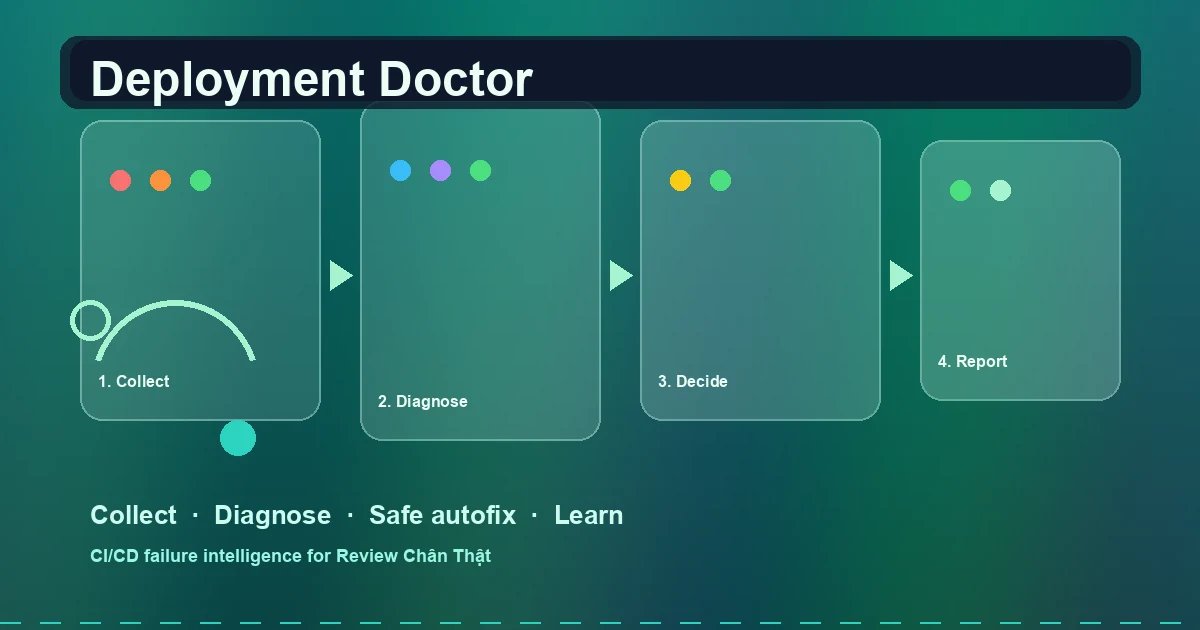
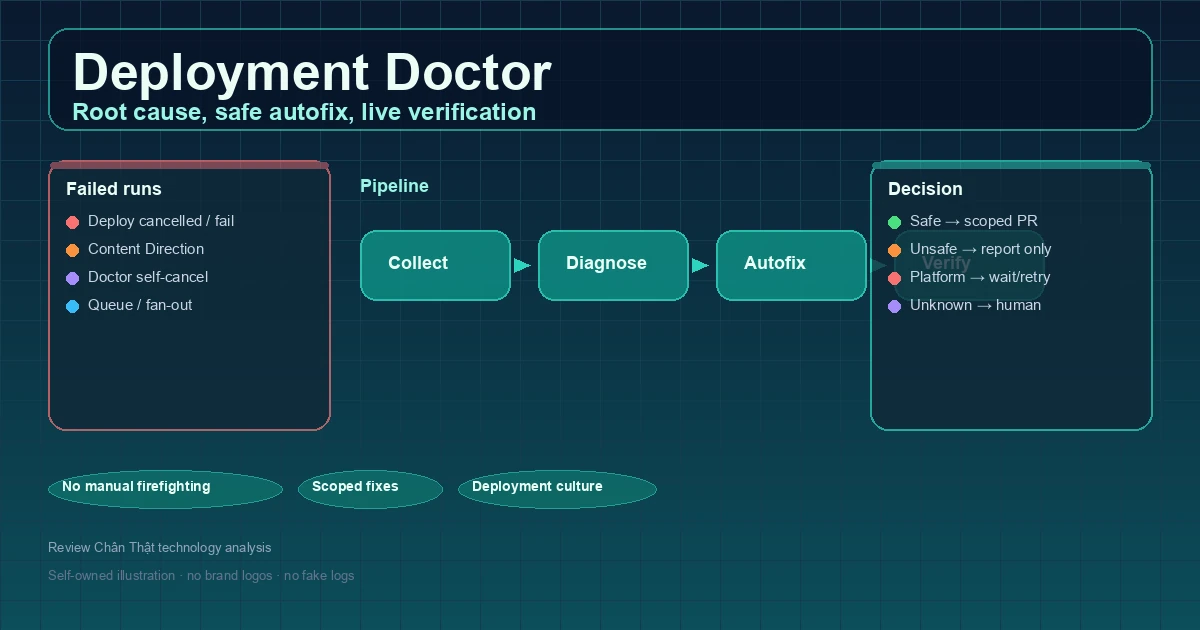
feat(content): add Deployment Doctor article
Expanded Vietnamese technology post on Deployment Doctor deployment culture,
with required root-cause tables, baseline debt / live verification lessons,
and a context-aware self-generated hero WebP.

diff --git a/content/posts/deployment-doctor-tu-chan-doan-loi-deploy-root-cause-autofix.md b/content/posts/deployment-doctor-tu-chan-doan-loi-deploy-root-cause-autofix.md
@@ -8,7 +8,7 @@ tags = ["Deployment Doctor", "GitHub Actions", "CI/CD", "autofix", "deployment",
 author = "Minh Hoàng"
 image = "images/posts/deployment-doctor-tu-chan-doan-loi-deploy-root-cause-autofix.webp"
 thumbnail = "images/posts/deployment-doctor-tu-chan-doan-loi-deploy-root-cause-autofix.webp"
-image_alt = "Minh họa editorial Deployment Doctor: pipeline Collect → Diagnose → Decide → Report với tone teal, biểu tượng chẩn đoán CI/CD và trạng thái fail/safe/autofix."
+image_alt = "Minh họa editorial Deployment Doctor: dashboard tech teal, pipeline Collect Diagnose Autofix Verify, panel Failed runs / Safe Unsafe Report, không logo thương hiệu."
 image_status = "verified"
 image_provider = "self-generated"
 image_source = "Review Chân Thật"
@@ -43,188 +43,179 @@ items = [
 ]
 +++
 
-Có những đêm CI/CD đỏ hàng loạt: Deploy fail, QA debt fail, Content Direction fail — mỗi cái một commit, mỗi cái một log. Nếu cứ mở từng run, đoán root cause, vá tay rồi push lại, bạn sẽ kiệt sức trước cả khi blog ổn định.
+Một blog cá nhân trông “nhỏ”, nhưng pipeline có thể rất đông: Deploy, Content Direction, QA debt, autofix, snapshot, doctor… Chỉ cần **một** fail không được phân loại, cả dây chuyền dễ chạy vòng: bot sửa, bot report, bot deploy lại, runner xếp hàng, và chủ blog thức đêm mở log.
 
-**Deployment Doctor** ra đời từ đúng nỗi đau đó. Đây không phải “AI thần thánh tự sửa mọi bug”. Đây là một **lớp văn hoá deployment**: gom failed builds, phân loại root cause, lưu kinh nghiệm hệ thống, **chỉ autofix khi an toàn**, và đưa report ra dashboard để owner không phải sống trong GitHub Actions.
+Vấn đề không phải “có lỗi”. Lỗi luôn có. Vấn đề là **lỗi không được gắn ngữ cảnh**: runner queue trông giống bug code; GitHub outage trông giống template hỏng; nợ QA bài cũ trông giống feature PR mới hỏng. Khi mọi thứ đều “đỏ”, phản xạ tự nhiên là commit hotfix — và đó thường là phản xạ sai.
 
-Trang báo cáo nội bộ của blog: [Deployment Doctor]({{< relref "/deployment-doctor/" >}}).
-
-## Vấn đề thật: fail không phải luôn do code của bạn
-
-Trong vài ngày vận hành Review Chân Thật trên GitHub Actions + GitHub Pages, chúng tôi thấy rõ ba nhóm lỗi **không cùng một cách xử lý**:
-
-| Nhóm | Ví dụ | Có nên viết code hotfix ngay? |
-|------|--------|-------------------------------|
-| Platform / runner | `Waiting for a hosted runner…`, Actions delayed start, Pages incident | **Không** — chờ recovery, cancel run cũ, rerun latest |
-| QA debt / baseline | Post cũ thiếu image metadata, creator rỗng sai policy | **Không chặn deploy tính năng mới** — batch debt riêng |
-| Lỗi scope rõ | date-only, self-owned image bắt `direct_url`, report rỗng, hardcode `/series/` | **Có thể autofix** nếu script nhỏ + QA + retry cap |
-
-Nếu hệ thống **không phân biệt** ba nhóm này, mọi fail đều trông giống nhau: đỏ, và đều kích hoạt “sửa code gấp”. Đó là cách biến một sự cố runner thành một vòng lặp PR hotfix vô nghĩa.
+**Deployment Doctor** ra đời để biến failed builds thành **dữ liệu có hành động**: gom run, đọc log đã sanitize, gắn root cause, quyết định `safe_to_autofix`, rồi hoặc mở PR nhỏ, hoặc chỉ ghi report. Dashboard nội bộ nằm tại [Deployment Doctor](/deployment-doctor/). Bài này kể triết lý và design thật mà Review Chân Thật đang dùng, dựa trên một cụm failed runs gần đây trên `main` (không bịa run ID tuyệt đối nếu không cần).
 
 ## Deployment Doctor là gì?
 
-**Deployment Doctor** là pipeline Python + workflow GitHub Actions + trang Hugo (noindex) giúp blog:
+Deployment Doctor là một lớp **“bác sĩ deployment”** — không phải AI thay engineer, mà là **quy trình có máy hỗ trợ**:
 
-1. **Collect** — lấy danh sách run gần đây (`gh run list`), lọc failure / cancelled / timed_out / stuck queue.
-2. **Sanitize logs** — lưu excerpt đã redact token/API key (không đưa secret ra frontend).
-3. **Diagnose** — so khớp log với **knowledge base** root cause đã gặp.
-4. **Decide** — `safe_to_autofix: true|false`, action items, có nên mở PR hay chỉ report.
-5. **Autofix (có giới hạn)** — tối đa vài fix/lần, tối đa 2 attempt cho cùng `sha:failure_type`.
-6. **Export dashboard** — `data/deployment-doctor.json` → trang `/deployment-doctor/`.
+1. **Gom failed workflows** từ GitHub Actions (failure, cancelled, timed_out, hoặc queue bất thường).
+2. **Đọc log đã sanitize** — redact token, API key, private key; không đưa secret ra frontend.
+3. **Nhận diện root cause** bằng knowledge base (pattern log + heuristic).
+4. **Gắn `safe_to_autofix: true|false`** cùng action items.
+5. **Chạy script sửa lỗi nếu an toàn** và scope hẹp.
+6. **Mở PR nhỏ** hoặc **chỉ report** nếu không an toàn.
+7. **Lưu kinh nghiệm** vào knowledge base / attempt ledger để lần sau không “học lại từ zero”.
 
-Tên “Doctor” mang nghĩa **chẩn đoán trước khi kê thuốc**. Không phải tự động mổ mọi thứ.
+Nói cách khác: Doctor **chẩn đoán trước khi kê thuốc**. Tự động hoá không đồng nghĩa “cứ fail là sửa code”.
 
-## Knowledge base: biến incident thành trí nhớ hệ thống
+## Vì sao không nên auto-fix mọi lỗi?
 
-Mỗi lần fail “đã từng gặp” mà không ghi lại, lần sau team lại học lại từ đầu. Deployment Doctor giữ một knowledge base JSON với pattern kiểu:
+Automation thiếu phân loại nguy hiểm hơn không có automation. Một vài lý do thực tế:
 
-- `runner_capacity_delay` — runner queue, **không** autofix code  
-- `external_platform_incident` — GitHub Status / Actions delayed  
-- `baseline_debt_blocking_unrelated_deploy` — nợ QA cũ chặn feature  
-- `self_owned_image_direct_url` — ảnh self-generated không có `direct_url`  
-- `content_direction_empty_report` — report 0 posts / empty fallback  
-- `workflow_fanout` — một merge kích hoạt quá nhiều workflow song song  
-- `table_layout_ux_regression`, `qa_expectation_mismatch`, …
+**Runner queue không phải code bug.** Log kiểu *Waiting for a hosted runner to come online* nghĩa là job chưa kịp checkout. Commit hotfix Hugo template lúc này chỉ tạo thêm run xếp hàng.
 
-Mỗi pattern có:
+**GitHub outage / rate limit không phải lỗi repo.** Khi Actions/Pages degraded, “sửa blog” không làm platform xanh lại. Cần pause workflow phụ, cancel run superseded, rerun latest sau recovery.
 
-- **match strings** trong log  
-- **safe_to_autofix**  
-- **action items** rõ ràng  
-- script gợi ý (nếu có)
+**Old QA debt không nên block deploy tính năng mới.** Nếu mỗi PR nhỏ phải “chữa hết” metadata ảnh của hàng chục bài cũ, feature ship sẽ chết vì nợ không liên quan.
 
-Nhờ vậy, khi log hiện `No direct_url in manifest` trên ảnh `self-generated`, doctor **không** đề xuất “tải lại từ Pexels”. Nó đề xuất: bỏ yêu cầu `direct_url` với self-owned, kiểm tra file local dưới `static/images/posts/`.
+**Một số lỗi cần chờ / retry / cancel**, không cần commit. Deploy stale đôi khi chỉ cần rerun artifact mới nhất có kiểm soát.
 
-## Quy tắc vàng: an toàn trước, tự động sau
+**Auto-fix thiếu phân loại có thể làm site hỏng hơn:** bot “vá” sai file, tạo PR rỗng, hoặc loop commit report kích hoạt deploy vô hạn. Doctor cố tình **không** an toàn nếu không có pattern rõ.
 
-### Những gì **không** được autofix
+## Những nhóm lỗi Deployment Doctor phải nhận diện
 
-- Runner capacity / “waiting for hosted runner”  
-- GitHub outage / rate limit Pages  
-- Fake image creator (vi phạm policy attribution)  
-- Unknown failure chưa có pattern đủ tin cậy  
+Bảng dưới là “bảng bệnh án” tối thiểu — tín hiệu nhận diện, có được autofix trong deploy chính hay không, và action item gợi ý.
 
-Với các lỗi này, doctor **chỉ report**: owner thấy action item kiểu “đợi recovery rồi rerun latest deploy”, không có PR code lung tung lúc nửa đêm.
+| Nhóm lỗi | Tín hiệu nhận diện | Có nên autofix? | Action item |
+|----------|--------------------|-----------------|-------------|
+| Runner capacity delay | `Waiting for a runner…` / hosted runner chưa online | **Không** | Cancel run superseded; retry **latest** deploy sau khi hồi phục |
+| External platform incident | GitHub Status degraded, Actions delayed start | **Không** | Pause workflow phụ; không hotfix code repo |
+| Old QA debt blocking unrelated deploy | Bài cũ fail image/compliance dù PR không sửa bài đó | **Không** trong deploy chính | Baseline debt + batch PR riêng (`qa-debt-fix`) |
+| Changed post compliance issue | Bài mới/sửa thiếu metadata, date, image | **Có**, scoped | Chỉ sửa file changed/new |
+| Self-owned image `direct_url` | Ảnh self-generated fail vì không có provider `direct_url` | **Có** | Process local path dưới `static/images/posts/` |
+| Content Direction empty report | Report 0 posts dù repo có content | **Có** | Fail nếu scan 0 posts; không ghi JSON rỗng đè data |
+| Live deploy stale | Merge success nhưng live SHA cũ | **Có giới hạn** | `build-info.json` + verify live + rerun latest **một lần** |
+| Workflow fan-out | Một merge kích hoạt quá nhiều workflow | **Có** | Concurrency + `paths-ignore` + report-only skip |
 
-### Những gì **được** autofix (scope hẹp)
+Trong một cụm failed/cancelled runs gần đây trên `main` (lấy bằng `gh run list --limit 30`), ta thấy xen kẽ Deployment Doctor, Content Direction và Deploy — đúng kiểu **fan-out + cancel** hơn là “một bug bí ẩn duy nhất”. Điều quan trọng là hệ thống **phân nhóm** trước khi quyết định commit.
 
-- Chuẩn hoá date timezone Việt Nam khi pattern rõ  
-- Self-owned image: bỏ hard-fail `direct_url`  
-- Creator empty hợp lệ khi `source_verified_creator_unavailable`  
-- Content Direction: regenerate + guard không ghi JSON rỗng đè data thật  
-- `build-info.json` để verify live SHA  
-- paths-ignore / concurrency để giảm fan-out  
+## Kiến trúc đề xuất: 5 lớp
 
-Mỗi lần fix:
+### 1. Collector
 
-- **Max 3 fixes / run doctor**  
-- **Max 2 attempts / (SHA + failure_type)** — chống loop  
-- Không rewrite full site content  
-- Không mass-replace toàn bộ ảnh  
-- Không mở PR rỗng  
+Gọi GitHub CLI / API, lấy run gần đây, lọc conclusion thú vị, tải log (nếu được), sanitize, lưu excerpt. Nếu không auth được `gh`, collector **không fail build** — ghi `github_api_unavailable` và vẫn export dashboard một phần.
 
-## Loop guard và văn hoá “không tự bắn vào chân”
+### 2. Diagnosis engine
 
-Một deployment culture lành mạnh phải chấp nhận: **autofix cũng có thể tạo fail mới**.
+Map log + tên workflow → `failure_type` + `confidence` + `safe_to_autofix`. Ưu tiên đọc **nội dung log** hơn title commit (tránh false positive). Job chưa từng checkout → gần như chắc `runner_capacity_delay`.
 
-Deployment Doctor dùng ledger `data/deployment-doctor-attempts.json`. Nếu cùng `sha:failure_type` đã thử 2 lần → đánh dấu `needs_human_review`, không tạo PR thứ ba.
+### 3. Knowledge base
 
-Commit message có marker:
+JSON pattern: match strings, summary, action items, script gợi ý. Mỗi lần gặp fail mới “lạ” mà lặp lại → bổ sung pattern. Knowledge base là **trí nhớ team**, không phải đống log chết.
 
-- `[skip-autofix]`  
-- `[deployment-doctor] [skip-report]`  
+### 4. Scoped autofix
 
-Deploy workflow **paths-ignore** các file report/doctor data để commit dashboard **không** kích hoạt deploy → doctor → commit → deploy… vô hạn.
+Chỉ sửa khi:
 
-Content Direction cũng được tách: **chỉ chạy sau khi Deploy success** (workflow_run), không đua runner với Deploy — giảm fail giả do queue/capacity.
+- `safe_to_autofix == true`
+- có script đăng ký
+- attempt ledger chưa vượt cap (ví dụ max 2 lần / `sha:failure_type`)
+- max N fixes mỗi lần chạy doctor
 
-## Dashboard: owner nhìn một trang, không đào log
+Không full-site rewrite. Không mass-replace ảnh. Không PR rỗng.
 
-Trang [Deployment Doctor]({{< relref "/deployment-doctor/" >}}) (noindex, không vào sitemap) hiển thị:
+### 5. Dashboard
 
-- **Summary** luôn mở: số run fail, số safe autofix, số unsafe/external  
-- Các section còn lại **gập mặc định** (Recent failures, clusters, action items, lessons…) để UX không dài  
-- Action items P0/P1/P2  
-- “What owner should do” — thường trống; chỉ hiện khi cần secret, quyết định pháp lý, hoặc platform event  
+Trang noindex (không sitemap) cho owner: Summary luôn mở; các section dài gập mặc định. Action items P0/P1/P2. “What owner should do” thường trống — chỉ hiện khi cần secret, quyết định pháp lý, hoặc platform event.
 
-Mục tiêu UX: **ban đêm chỉ cần lướt Summary**. Cần sâu thì mới bấm mở.
-
-## Bài học từ fail thật của blog này
-
-Dưới đây là vài “bệnh án” đã gặp và cách doctor hoá:
-
-### 1. Runner queue / platform delay
-
-Log: *Waiting for a runner to pick up this job*.  
-**Thuốc sai:** sửa Hugo template.  
-**Thuốc đúng:** không đổi code; cancel run superseded; rerun latest sau recovery.  
-→ Pattern `runner_capacity_delay` / `external_platform_incident`.
-
-### 2. Self-owned image + `direct_url`
-
-Log: *FAIL: No direct_url in manifest*.  
-**Thuốc sai:** gán URL Pexels giả.  
-**Thuốc đúng:** self-generated không cần `direct_url`; verify file WebP local + metadata `image_owner=self`.  
-→ Pattern `self_owned_image_direct_url`.
-
-### 3. Content Direction rỗng / commit file gitignore
-
-UI hiện 0 bài dù repo có posts; hoặc job `git add reports/` bị `.gitignore` chặn.  
-**Thuốc đúng:** fail nếu scan 0 posts; không overwrite JSON rỗng; **chỉ commit** `data/content-direction.json`, không add `reports/**`.  
-→ Pattern `content_direction_empty_report` + fix workflow vĩnh viễn.
-
-### 4. Baseline debt chặn feature
-
-Deploy feature nhỏ fail vì post cũ thiếu license/creator.  
-**Thuốc đúng:** QA gate strict trên **changed/new**; debt cũ chạy batch workflow riêng.  
-→ Pattern `baseline_debt_blocking_unrelated_deploy`.
-
-## Kiến trúc tối giản bạn có thể copy
-
-Nếu muốn dựng “Doctor” cho repo static site của mình, giữ pipeline **đơn giản và kiểm soát được**:
+Luồng tóm tắt:
 
 ```text
-Deploy (main) ──success──► Content Direction / Doctor collect
-                              │
-                              ▼
-                     Diagnose vs knowledge base
-                              │
-              ┌───────────────┴───────────────┐
-              │                               │
-         unsafe/external                 safe + scoped
-              │                               │
-         report only                    autofix + QA
-              │                               │
-              └──────────► dashboard JSON ────┘
-                              │
-                              ▼
-                     /deployment-doctor/ (noindex)
+Failed runs
+    → Collector (sanitize logs)
+    → Diagnosis (knowledge base)
+    → Safe autofix?
+         ├─ yes → script scoped → QA → PR nhỏ (có cap)
+         └─ no  → report-only / dashboard
+    → Live verification (build-info + URL thật)
 ```
 
-Nguyên tắc thiết kế:
+## Lỗi nào được autofix, lỗi nào chỉ report?
 
-1. **Knowledge-first** — không match pattern thì không tự sửa.  
-2. **Scope-first** — chỉ đụng file liên quan.  
-3. **Cap-first** — giới hạn attempt và số PR.  
-4. **Report-first trên platform fail** — im lặng còn hơn hotfix sai.  
-5. **Dashboard cho người** — machine-readable JSON + UI gập gọn.
+| Failure type | Autofix? | Vì sao | Ví dụ action |
+|--------------|----------|--------|--------------|
+| date-only / timezone | **Yes** | Pattern rõ, script `fix-obvious` | Chuẩn hoá `+07:00`, không rewrite ngày mơ hồ |
+| self-owned image without `direct_url` | **Yes** | Ảnh local không cần provider URL | Skip hard-fail; verify file WebP local |
+| changed post missing image metadata | **Yes (scoped)** | Chỉ bài mới/sửa | Bổ sung metadata self-generated cho đúng slug |
+| Content Direction empty report | **Yes** | Guard + regenerate | Fail nếu 0 posts; chỉ commit `data/content-direction.json` |
+| hardcoded `/series/` hoặc `/images/` | **Yes** | Lỗi baseURL project pages | `relURL` / path có base path project |
+| runner queue | **No** | Không phải bug repo | Cancel + retry latest sau recovery |
+| GitHub outage | **No** | Platform | Pause nonessential workflows |
+| rate limit | **No** (hoặc backoff) | Platform | Backoff; giảm fan-out |
+| old QA debt | **Separate PR** | Không chặn deploy chính | Batch debt, baseline ledger |
+| unknown build error | **No** (trừ pattern đã biết) | Rủi ro cao | Human review + thêm knowledge |
 
-## Kết luận
+## Vì sao cần baseline debt?
 
-Deployment Doctor không thay thế engineer. Nó thay thế **thói quen phản xạ nửa đêm**: thấy đỏ là sửa lung tung.
+Blog có nhiều bài cũ. Metadata ảnh, license, creator — chuẩn ngày nay gắt hơn lúc viết bài. Nếu **mọi deploy** chạy compliance full-site, một PR “sửa CSS table” có thể fail vì bài du lịch tháng trước thiếu `image_license_url`.
 
-Khi blog (và team) biết:
+Cách đúng:
 
-- fail nào là **platform**,  
-- fail nào là **nợ cũ**,  
-- fail nào là **bug scope rõ**,  
+1. **Changed/new content: strict** — bài mới không được nợ.
+2. **Old debt → baseline** — ghi nhận, không chặn feature.
+3. **Batch PR** theo lịch / workflow tay — sửa dần.
+4. **Không hạ chuẩn** cho bài mới để “cho lẹ”.
 
-thì CI/CD trở thành hệ thống **học được**, không chỉ là đèn giao thông.
+Đây là điểm văn hoá: **strict ≠ trừng phạt quá khứ trong mọi PR**.
 
-Nếu bạn đang xây Hugo + GitHub Actions: hãy bắt đầu bằng **gom failed runs + knowledge base + safe_to_autofix**. Autofix chỉ là bước sau — khi bạn đã đủ khiêm tốn để không để robot “chữa” những thứ không thuộc về code.
+## Vì sao cần live verification?
 
-Đọc thêm trong cụm CI/CD của blog:
+Merge xanh trên GitHub **chưa chắc** live đã cập nhật. Deploy job success **chưa chắc** đúng artifact mới. Pages có thể serve bản cũ, cancel giữa chừng, hoặc rate-limit publish.
 
-- [GitHub Actions run start delays (9/7/2026)]({{< relref "/posts/github-actions-run-start-delays-july-9-2026-ci-cd-protection/" >}})  
-- [Pages recovered: checklist sau incident]({{< relref "/posts/github-actions-pages-recovered-july-9-2026-what-to-check-after-ci-cd-incident/" >}})  
-- [Workflow failures audit: root causes & action items]({{< relref "/posts/workflow-failures-audit-recent-ci-cd-root-causes-action-items/" >}})  
+Thực tế cần:
+
+- `static/build-info.json` (hoặc tương đương) ghi SHA lúc build
+- Kiểm tra live URL / `build-info` sau deploy
+- Nếu stale: **rerun latest deploy một lần**, không spam
+
+Tin badge workflow hơn live URL là cách hay để tự lừa mình.
+
+## Vì sao ảnh tự vẽ cũng cần được Deployment Doctor hiểu?
+
+Review Chân Thật chuyển sang **self-generated / self-hosted hero**. Ảnh không còn `direct_url` kiểu Pexels/Unsplash. Pipeline cũ từng fail:
+
+```text
+FAIL: No direct_url in manifest for <slug>
+```
+
+Đó là **false positive** với self-owned. Doctor (và `process_images`) phải hiểu:
+
+- `image_provider = self-generated`
+- `image_owner = self`
+- `image_creator = Review Chân Thật` (self, không bịa nghệ sĩ)
+- `image_attribution_source = self_generated`
+- file nằm dưới `static/images/posts/`
+
+**Không được fail chỉ vì thiếu external `direct_url`.** Cũng không được “vá” bằng creator giả hay fallback generic. Context-aware generation: đọc bài → prompt/visual brief → vẽ → metadata khớp content.
+
+## Bài học rút ra
+
+1. **Đừng để automation tự sửa mọi thứ.** Sửa sai đắt hơn fail có chủ đích.
+2. **Đừng để lỗi cũ block deploy mới.** Baseline debt + batch riêng.
+3. **Đừng xem mọi failed workflow là lỗi code.** Runner và platform tồn tại.
+4. **Đừng tin deploy badge hơn live URL.** Verify artifact/SHA.
+5. **Hãy lưu kinh nghiệm thành knowledge base.** Pattern lặp lại phải rẻ hơn lần đầu.
+6. **Hãy để bot làm việc lặp lại; con người quyết định mơ hồ.** Unknown = human review.
+7. **Giới hạn attempt và fan-out.** Loop guard, concurrency, paths-ignore report-only.
+8. **Content Direction / doctor không đua runner với Deploy.** Chạy sau success giảm fail giả.
+
+## Nhận xét của Review Chân Thật
+
+Deployment Doctor **không phải để che lỗi**. Nó làm lỗi **rõ hơn, có ngữ cảnh hơn**, và ít đánh thức chủ blog hơn.
+
+Một deployment culture tốt, ít nhất với static site + GitHub Actions, cần ba thứ:
+
+1. **Root cause rõ** — không gộp mọi đỏ thành một
+2. **Autofix có giới hạn** — scope, cap, ledger
+3. **Live verification sau deploy** — SHA thật trên site
+
+Với blog cá nhân / indie / Hugo: automation nên **hỗ trợ con người**, không tạo thêm ca trực. Doctor là công cụ để ban đêm chỉ cần mở Summary dashboard — còn bot chỉ đụng những vết thương đã biết cách băng.
+
+Nếu bạn đang dựng pipeline tương tự, hãy bắt đầu bằng collector + knowledge base + `safe_to_autofix`. Autofix là bước sau, khi bạn đủ khiêm tốn để không để robot “chữa” những thứ không thuộc về code.
+
+Đọc thêm các bài cùng cụm vận hành CI/CD trên blog: bảo vệ pipeline khi [GitHub Actions chậm start runner](/posts/github-actions-run-start-delays-july-9-2026-ci-cd-protection/), checklist sau khi [Pages/Actions hồi phục](/posts/github-actions-pages-recovered-july-9-2026-what-to-check-after-ci-cd-incident/), và [audit workflow failures → root causes → action items](/posts/workflow-failures-audit-recent-ci-cd-root-causes-action-items/).